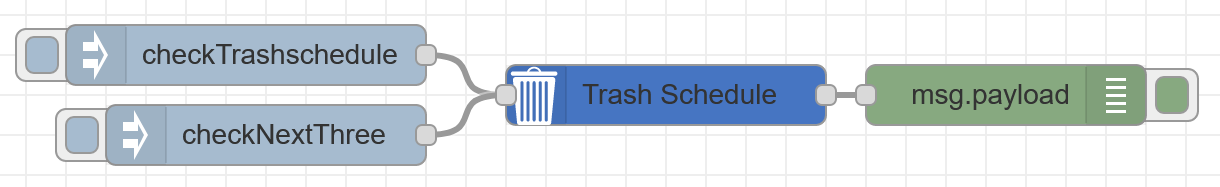
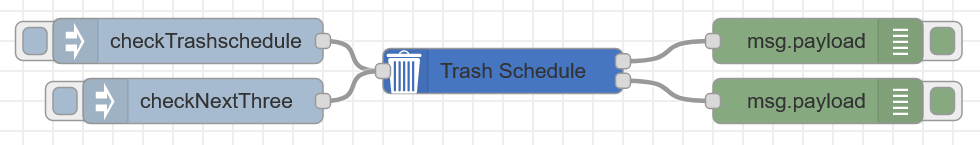
bugfix

Changed region(s): [[0.0, 0.1103, 1.0, 0.9103]]

diff --git a/trashschedule.js b/trashschedule.js
@@ -321,13 +321,14 @@ module.exports = function (RED) {
           break;
         default:
           checkTrashschedule();
+          sendNextThreeTrashEvents();
           break;
       }
     });
 
     const dailyInterval = setInterval(() => {
       setCurrentDate();
-      if (currentMinute === 1) {
+      if (currentMinute === 0) {
         checkTrashschedule();
       }
     }, 60000);

diff --git a/README.md b/README.md
@@ -43,7 +43,7 @@ You can use the input to trigger events manually. The keywords are listed below.
 |```checkNextThree```    |return next three trashschedule event|
 
 ### Output
-Every hour at minute 1 (00:01, 01:01, ..., 15:01, ...) the node returns the next trashschedule event.
+Every hour the node returns the next trashschedule event.
 It returns the trashschedule events as an object. If there isn't a trashschedule event available you will receive the payload "Trashschedule events outdated".
 |key |value                 |
 |----|----------------------|
@@ -57,5 +57,5 @@ It returns the trashschedule events as an object. If there isn't a trashschedule
 
 You can import this example into your Node Red flow.
 ```
-[{"id":"a3b15fe2.252e08","type":"inject","z":"f250d57e.bf23e8","name":"","props":[{"p":"payload"}],"repeat":"","crontab":"","once":false,"onceDelay":0.1,"topic":"","payload":"checkTrashschedule","payloadType":"str","x":270,"y":60,"wires":[["b751037f.2da518"]]},{"id":"659846ef.d72b68","type":"debug","z":"f250d57e.bf23e8","name":"","active":true,"tosidebar":true,"console":false,"tostatus":false,"complete":"false","statusVal":"","statusType":"auto","x":650,"y":80,"wires":[]},{"id":"c79e0225.2138d8","type":"inject","z":"f250d57e.bf23e8","name":"","props":[{"p":"payload"}],"repeat":"","crontab":"","once":false,"onceDelay":0.1,"topic":"","payload":"checkNextThree","payloadType":"str","x":280,"y":100,"wires":[["b751037f.2da518"]]},{"id":"b751037f.2da518","type":"trashschedule","z":"f250d57e.bf23e8","name":"Trash Schedule","trashschedule":[{"name":"Hausmüll","day":2,"month":1,"year":2021},{"name":"Gelber Sack","day":8,"month":1,"year":2021},{"name":"Hausmüll","day":15,"month":1,"year":2021},{"name":"Altpapier","day":20,"month":1,"year":2021},{"name":"Gelber Sack","day":22,"month":1,"year":2021},{"name":"Hausmüll","day":29,"month":1,"year":2021},{"name":"Gelber Sack","day":5,"month":2,"year":2021},{"name":"Hausmüll","day":12,"month":2,"year":2021},{"name":"Altpapier","day":17,"month":2,"year":2021},{"name":"Gelber Sack","day":19,"month":2,"year":2021}],"skipHour":12,"x":480,"y":80,"wires":[["659846ef.d72b68"]]}]
+[{"id":"16648316.40b675","type":"inject","z":"f250d57e.bf23e8","name":"","props":[{"p":"payload"}],"repeat":"","crontab":"","once":false,"onceDelay":0.1,"topic":"","payload":"checkTrashschedule","payloadType":"str","x":390,"y":2160,"wires":[["9046f677.54ca08"]]},{"id":"122515a7.53ba7a","type":"inject","z":"f250d57e.bf23e8","name":"","props":[{"p":"payload"}],"repeat":"","crontab":"","once":false,"onceDelay":0.1,"topic":"","payload":"checkNextThree","payloadType":"str","x":400,"y":2200,"wires":[["9046f677.54ca08"]]},{"id":"72c61c9d.7a7794","type":"debug","z":"f250d57e.bf23e8","name":"","active":true,"tosidebar":true,"console":false,"tostatus":false,"complete":"false","statusVal":"","statusType":"auto","x":810,"y":2160,"wires":[]},{"id":"adfd6af9.07d488","type":"debug","z":"f250d57e.bf23e8","name":"","active":true,"tosidebar":true,"console":false,"tostatus":false,"complete":"false","statusVal":"","statusType":"auto","x":810,"y":2200,"wires":[]},{"id":"9046f677.54ca08","type":"trashschedule","z":"f250d57e.bf23e8","name":"Trash Schedule","trashschedule":[{"name":"Hausmüll","day":2,"month":1,"year":2021},{"name":"Gelber Sack","day":8,"month":1,"year":2021},{"name":"Hausmüll","day":15,"month":1,"year":2021},{"name":"Altpapier","day":20,"month":1,"year":2021},{"name":"Gelber Sack","day":22,"month":1,"year":2021},{"name":"Hausmüll","day":29,"month":1,"year":2021},{"name":"Gelber Sack","day":5,"month":2,"year":2021},{"name":"Hausmüll","day":12,"month":2,"year":2021},{"name":"Altpapier","day":17,"month":2,"year":2021},{"name":"Gelber Sack","day":19,"month":2,"year":2021},{"name":"Test","day":28,"month":3,"year":2021},{"name":"Test2","day":29,"month":4,"year":2021}],"skipHour":"10","x":600,"y":2180,"wires":[["72c61c9d.7a7794"],["adfd6af9.07d488"]]}]
 ```
